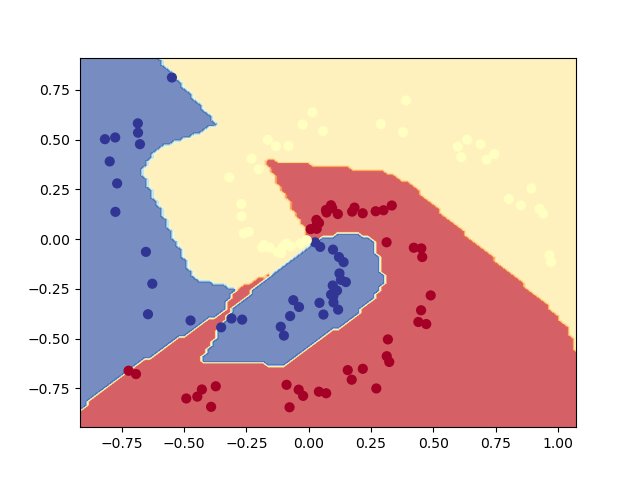
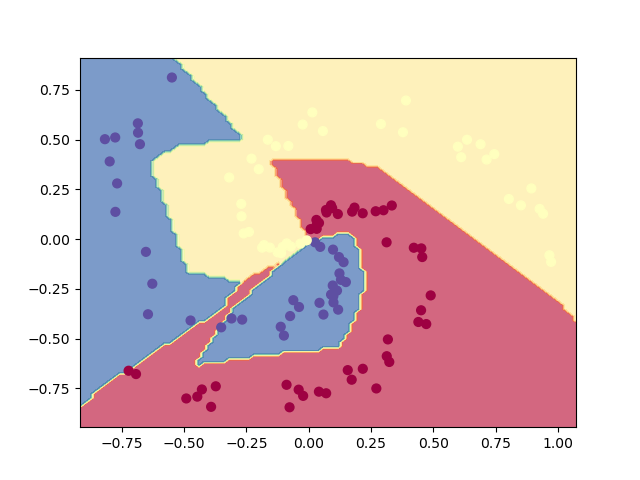
添加两个测试

diff --git a/blob-test.py b/blob-test.py
@@ -1,47 +1,59 @@
-# read and split datasets
+# Code for creating a spiral dataset from CS231n
 import time
 
-import pandas as pd
+import matplotlib.pyplot as plt
+from sklearn.datasets import make_blobs
 from sklearn.model_selection import train_test_split
 
 from Alpha.TinyLearner import *
-from Alpha.helper import softmax, plot_decision_boundary
+from Alpha.helper import plot_decision_boundary, softmax
 
-df = pd.read_csv('data/iris.data', header=None)
-xs = np.array(df.iloc[:, 2:4])
-name_dict = {'Iris-setosa': 0, 'Iris-versicolor': 1, 'Iris-virginica': 2}
-ys = df.iloc[:, 4].map(name_dict).to_numpy()
+# %% prepare the data
+X, y = make_blobs(n_samples=500,
+                  n_features=2,
+                  centers=4,
+                  cluster_std=1.5,
+                  random_state=42
+                  )
 
 X_train, X_test, y_train, y_test = \
-    train_test_split(xs, ys, test_size=0.4, random_state=42)
+    train_test_split(X, y, test_size=0.4, random_state=42)
 
+plt.figure(figsize=(10, 7))
+plt.scatter(X[:, 0], X[:, 1], c=y, cmap=plt.cm.Spectral)
+plt.savefig('images/blob.png')
+plt.show()
+
+# %% build the neural network
 
 class NN:
     def __init__(self):
         self.x = create_zeros(2, 1)
-        self.weights_1 = create_randoms(3, 2, 42)
-        self.bias_1 = create_randoms(3, 1, 42)
-        self.weights_2 = create_randoms(3, 3, 42)
-        self.bias_2 = create_randoms(3, 1, 42)
-        self.weights_3 = create_randoms(3, 3, 42)
-        self.bias_3 = create_randoms(3, 1, 42)
+        self.weights_1 = create_randoms(20, 2, 42)
+        self.bias_1 = create_randoms(20, 1, 42)
+
+        # self.weights_2 = create_randoms(5, 5, 42)
+        # self.bias_2 = create_randoms(5, 1, 42)
+
+        self.weights_3 = create_randoms(4, 20, 42)
+        self.bias_3 = create_randoms(4, 1, 42)
 
         tmp = mat_mul(self.weights_1, self.x)
         tmp = mat_add(self.bias_1, tmp)
         tmp = [[ReLU(i) for i in row] for row in tmp]
-        tmp = mat_mul(self.weights_2, tmp)
-        tmp = mat_add(self.bias_2, tmp)
-        tmp = [[ReLU(i) for i in row] for row in tmp]
+        # tmp = mat_mul(self.weights_2, tmp)
+        # tmp = mat_add(self.bias_2, tmp)
+        # tmp = [[ReLU(i) for i in row] for row in tmp]
         tmp = mat_mul(self.weights_3, tmp)
         self.y_pred = mat_add(self.bias_3, tmp)
 
-        self.y_true = create_zeros(3, 1)
+        self.y_true = create_zeros(4, 1)
 
         self.params = []
         self.params.append(self.weights_1)
         self.params.append(self.bias_1)
-        self.params.append(self.weights_2)
-        self.params.append(self.bias_2)
+        # self.params.append(self.weights_2)
+        # self.params.append(self.bias_2)
         self.params.append(self.weights_3)
         self.params.append(self.bias_3)
 
@@ -65,7 +77,7 @@ optimizer = Adam(nn.params, lr=0.01)
 
 best_acc = 0
 start = time.time()
-for i in range(50):
+for i in range(100):
     # train loop
     for ax, ay in zip(X_train, y_train):
         nn.fit(ax, ay)
@@ -86,13 +98,12 @@ for i in range(50):
 
     if acc > best_acc:
         best_acc = acc
+        plot_decision_boundary(nn, X_test, y_test, 'images/blob-boundary.png')
 
-    print(f'[{i}] Accuracy: {acc}, Best: {best_acc}')
+    print(f'[{i}] Accuracy: {acc:.4f}, Best: {best_acc:.4f}')
 
     if best_acc == 1:
         break
 
 end = time.time()
 print(f'Time taken: {end - start}')
-
-plot_decision_boundary(nn, X_test, y_test, 'images/circle-boundary.png')

diff --git a/circle-test.py b/circle-test.py
@@ -1,47 +1,50 @@
-# read and split datasets
+# Code for creating a spiral dataset from CS231n
 import time
 
-import pandas as pd
+import matplotlib.pyplot as plt
+import numpy as np
+from sklearn.datasets import make_circles
 from sklearn.model_selection import train_test_split
 
 from Alpha.TinyLearner import *
-from Alpha.helper import softmax, plot_decision_boundary
+from Alpha.helper import plot_decision_boundary, softmax
 
-df = pd.read_csv('data/iris.data', header=None)
-xs = np.array(df.iloc[:, 2:4])
-name_dict = {'Iris-setosa': 0, 'Iris-versicolor': 1, 'Iris-virginica': 2}
-ys = df.iloc[:, 4].map(name_dict).to_numpy()
+# %% prepare the data
+X, y = make_circles(1000, noise=0.03, random_state=42)
 
 X_train, X_test, y_train, y_test = \
-    train_test_split(xs, ys, test_size=0.4, random_state=42)
+    train_test_split(X, y, test_size=0.4, random_state=42)
 
+# %% build the neural network
 
 class NN:
     def __init__(self):
         self.x = create_zeros(2, 1)
-        self.weights_1 = create_randoms(3, 2, 42)
-        self.bias_1 = create_randoms(3, 1, 42)
-        self.weights_2 = create_randoms(3, 3, 42)
-        self.bias_2 = create_randoms(3, 1, 42)
-        self.weights_3 = create_randoms(3, 3, 42)
-        self.bias_3 = create_randoms(3, 1, 42)
+        self.weights_1 = create_randoms(20, 2, 42)
+        self.bias_1 = create_randoms(20, 1, 42)
+
+        # self.weights_2 = create_randoms(5, 5, 42)
+        # self.bias_2 = create_randoms(5, 1, 42)
+
+        self.weights_3 = create_randoms(2, 20, 42)
+        self.bias_3 = create_randoms(2, 1, 42)
 
         tmp = mat_mul(self.weights_1, self.x)
         tmp = mat_add(self.bias_1, tmp)
         tmp = [[ReLU(i) for i in row] for row in tmp]
-        tmp = mat_mul(self.weights_2, tmp)
-        tmp = mat_add(self.bias_2, tmp)
-        tmp = [[ReLU(i) for i in row] for row in tmp]
+        # tmp = mat_mul(self.weights_2, tmp)
+        # tmp = mat_add(self.bias_2, tmp)
+        # tmp = [[ReLU(i) for i in row] for row in tmp]
         tmp = mat_mul(self.weights_3, tmp)
         self.y_pred = mat_add(self.bias_3, tmp)
 
-        self.y_true = create_zeros(3, 1)
+        self.y_true = create_zeros(2, 1)
 
         self.params = []
         self.params.append(self.weights_1)
         self.params.append(self.bias_1)
-        self.params.append(self.weights_2)
-        self.params.append(self.bias_2)
+        # self.params.append(self.weights_2)
+        # self.params.append(self.bias_2)
         self.params.append(self.weights_3)
         self.params.append(self.bias_3)
 
@@ -65,7 +68,7 @@ optimizer = Adam(nn.params, lr=0.01)
 
 best_acc = 0
 start = time.time()
-for i in range(50):
+for i in range(500):
     # train loop
     for ax, ay in zip(X_train, y_train):
         nn.fit(ax, ay)
@@ -86,13 +89,12 @@ for i in range(50):
 
     if acc > best_acc:
         best_acc = acc
+        plot_decision_boundary(nn, X_test, y_test, 'images/circle-boundary.png')
 
-    print(f'[{i}] Accuracy: {acc}, Best: {best_acc}')
+    print(f'[{i}] Accuracy: {acc:.2f}, Best: {best_acc:.2f}')
 
     if best_acc == 1:
         break
 
 end = time.time()
 print(f'Time taken: {end - start}')
-
-plot_decision_boundary(nn, X_test, y_test, 'images/circle-boundary.png')

diff --git a/Alpha/TinyGrader.py b/Alpha/TinyGrader.py
@@ -1,5 +1,10 @@
 import numpy as np
 
+eps = 1
+while 1 < 1 + eps:
+    eps /= 2
+eps *= 2
+
 
 class Expression:
     def value(self) -> float:
@@ -92,11 +97,17 @@ class Div(Expression):
         self.b = b
 
     def value(self) -> float:
-        return self.a.value() / self.b.value()
+        b_v = self.b.value()
+        if np.isclose(self.b.value(), 0):
+            b_v += eps
+        return self.a.value() / b_v
 
     def grad_backward(self, grad_value=1.0) -> None:
-        self.a.grad_backward(1 / self.b.value() * grad_value)
-        tmp = -(self.a.value() / (self.b.value() ** 2))
+        b_v = self.b.value()
+        if np.isclose(self.b.value(), 0):
+            b_v += eps
+        self.a.grad_backward(1 / b_v * grad_value)
+        tmp = -(self.a.value() / (b_v ** 2))
         self.b.grad_backward(tmp * grad_value)
 
 

diff --git a/Alpha/helper.py b/Alpha/helper.py
@@ -17,8 +17,8 @@ def plot_decision_boundary(model, X, y, file_name):
     y_pred = np.array([softmax(ay).argmax() for ay in y_logits])
 
     y_pred = y_pred.reshape(xx.shape)
-    plt.contourf(xx, yy, y_pred, cmap=plt.cm.RdYlBu, alpha=0.7)
-    plt.scatter(X[:, 0], X[:, 1], c=y, s=40, cmap=plt.cm.RdYlBu)
+    plt.contourf(xx, yy, y_pred, cmap=plt.cm.Spectral, alpha=0.7)
+    plt.scatter(X[:, 0], X[:, 1], c=y, s=40, cmap=plt.cm.Spectral)
     plt.xlim(xx.min(), xx.max())
     plt.ylim(yy.min(), yy.max())
     plt.savefig(file_name)

diff --git a/spiral-test.py b/spiral-test.py
@@ -11,7 +11,7 @@ from Alpha.helper import plot_decision_boundary, softmax
 # %% prepare the data
 N = 100  # number of points per class
 D = 2  # dimensionality
-K = 3  # number of classes
+K = 3 # number of classes
 X = np.zeros((N * K, D))  # data matrix (each row = single example)
 y = np.zeros(N * K, dtype='uint8')  # class labels
 for j in range(K):

diff --git a/iris-beta.py b/iris-beta.py
@@ -96,7 +96,7 @@ for i in range(2):
 
     if acc > best_acc:
         best_acc = acc
-        plot_decision_boundary(nn, X_test, y_test, 'images/beta-spiral-boundary.png')
+        plot_decision_boundary(nn, X_test, y_test, 'images/beta-circle-boundary.png')
 
     print(f'[{i}] Accuracy: {acc}, Best: {best_acc}')
 end = time.time()

diff --git a/Alpha/TinyLearner.py b/Alpha/TinyLearner.py
@@ -101,12 +101,6 @@ class MGD:
                     w[1] = delta
 
 
-eps = 1
-while 1 < 1 + eps:
-    eps /= 2
-eps *= 2
-
-
 def smooth(beta, average, g):
     return beta * average + (1 - beta) * g
 
